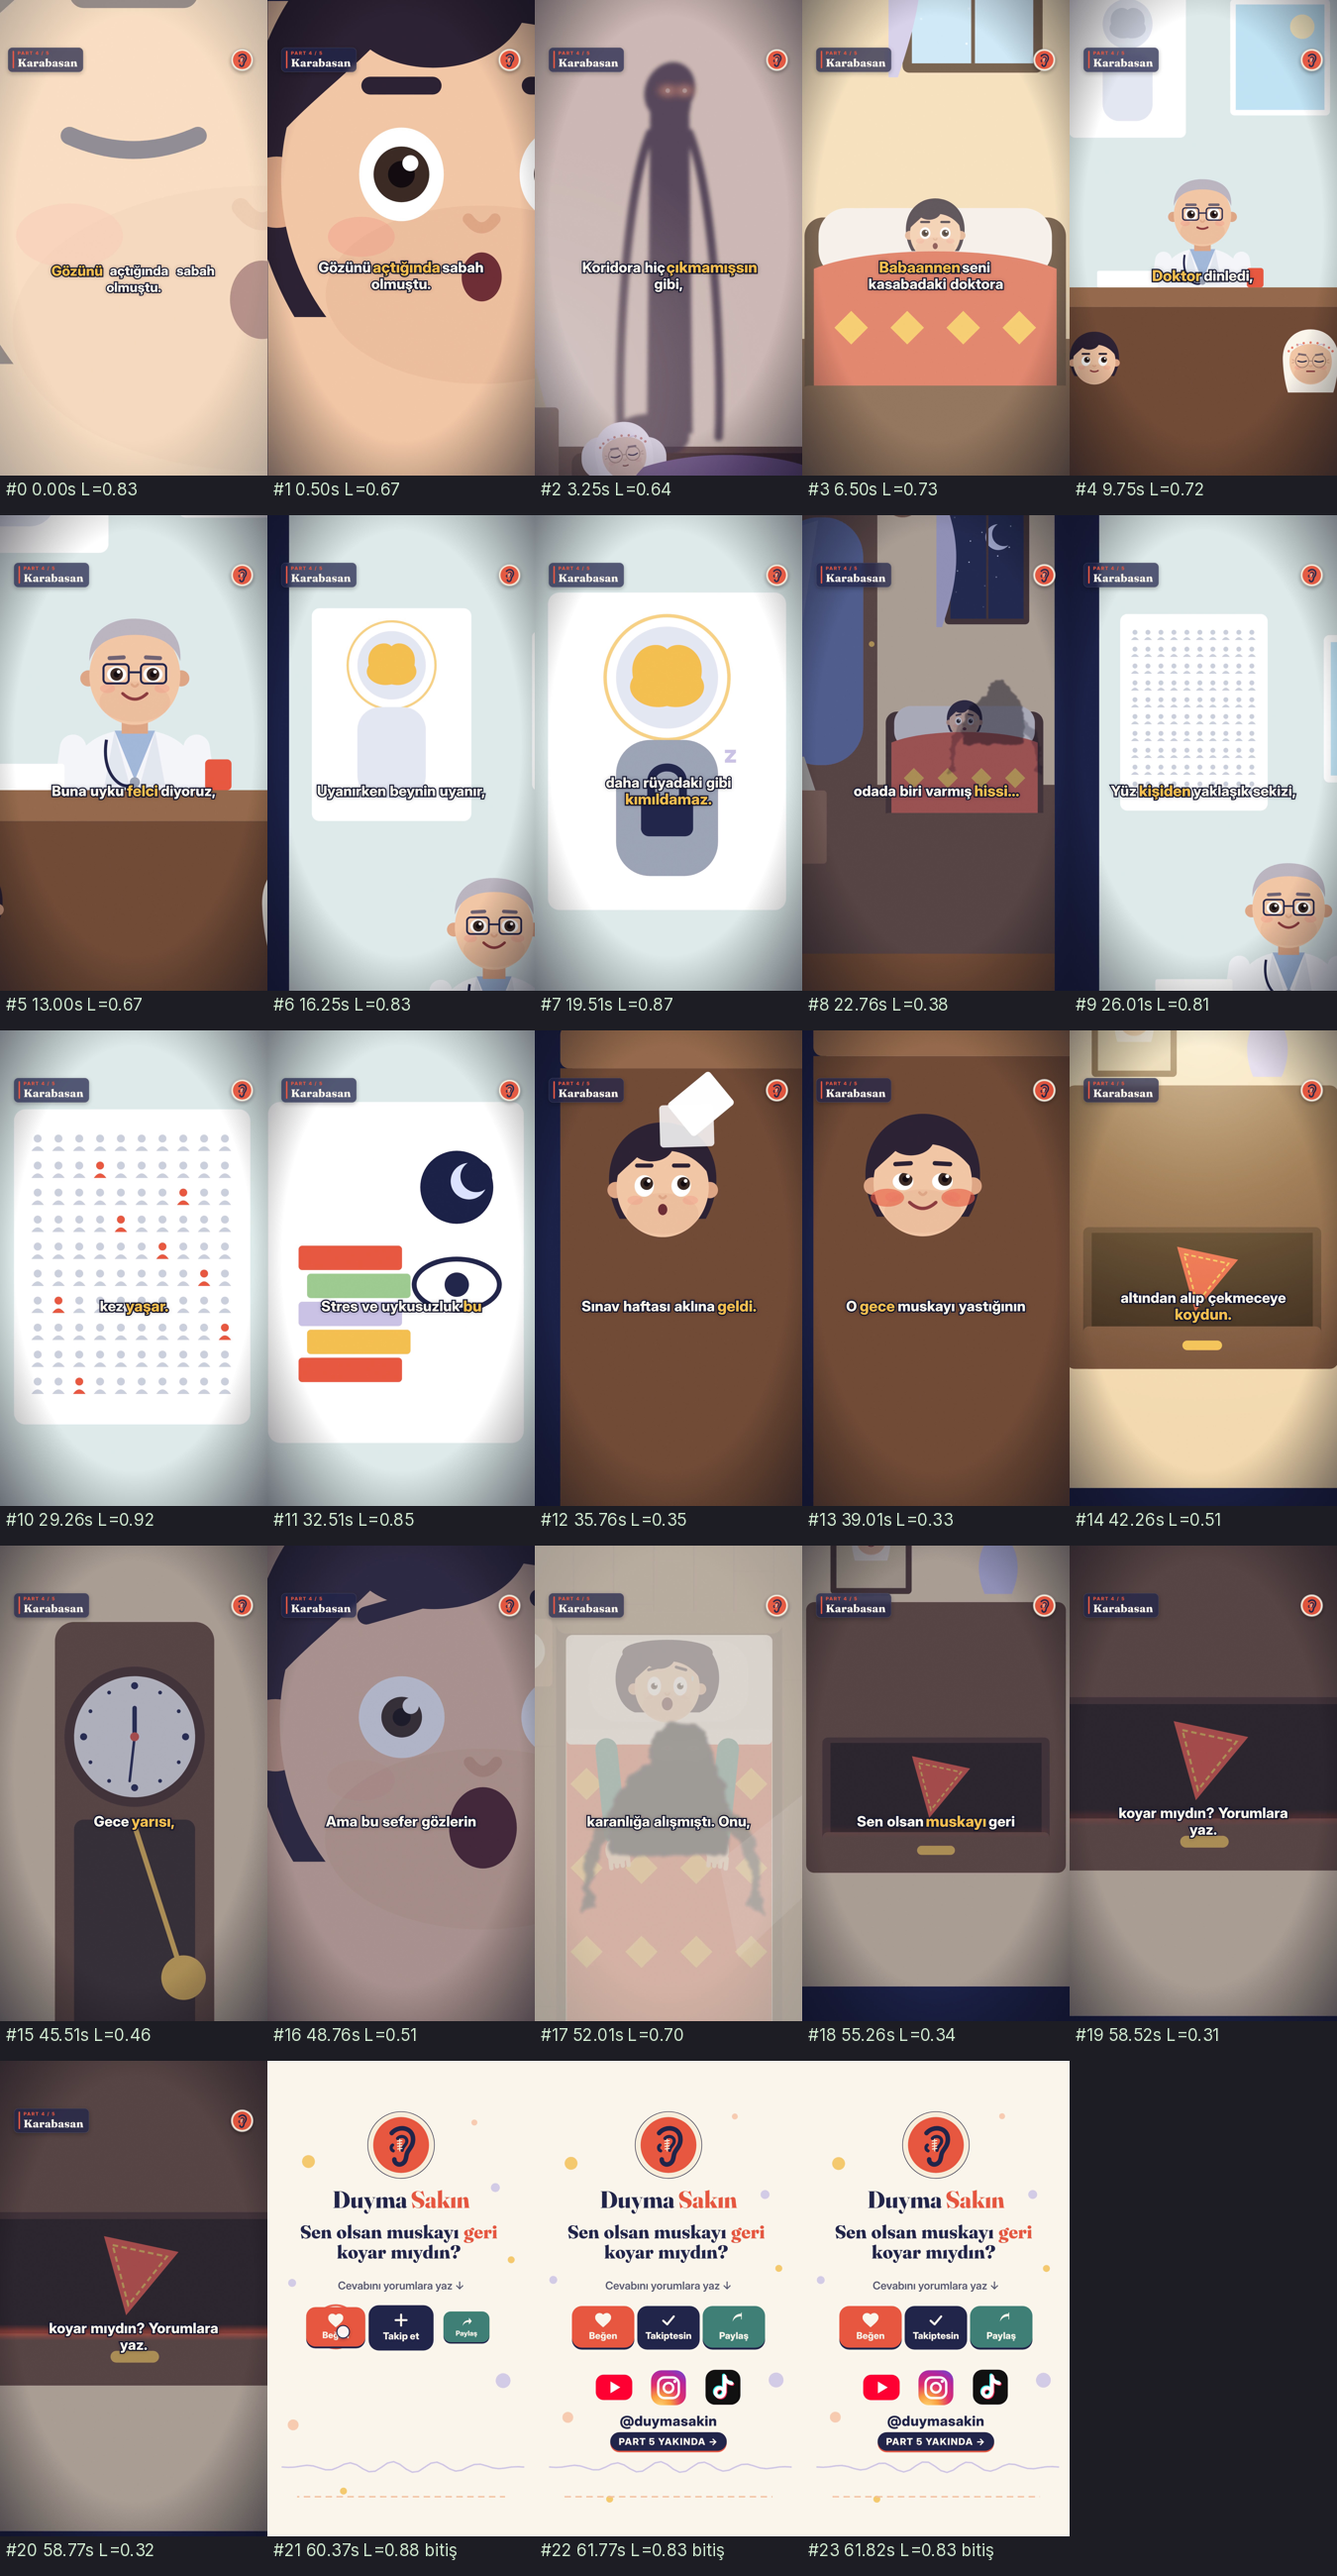
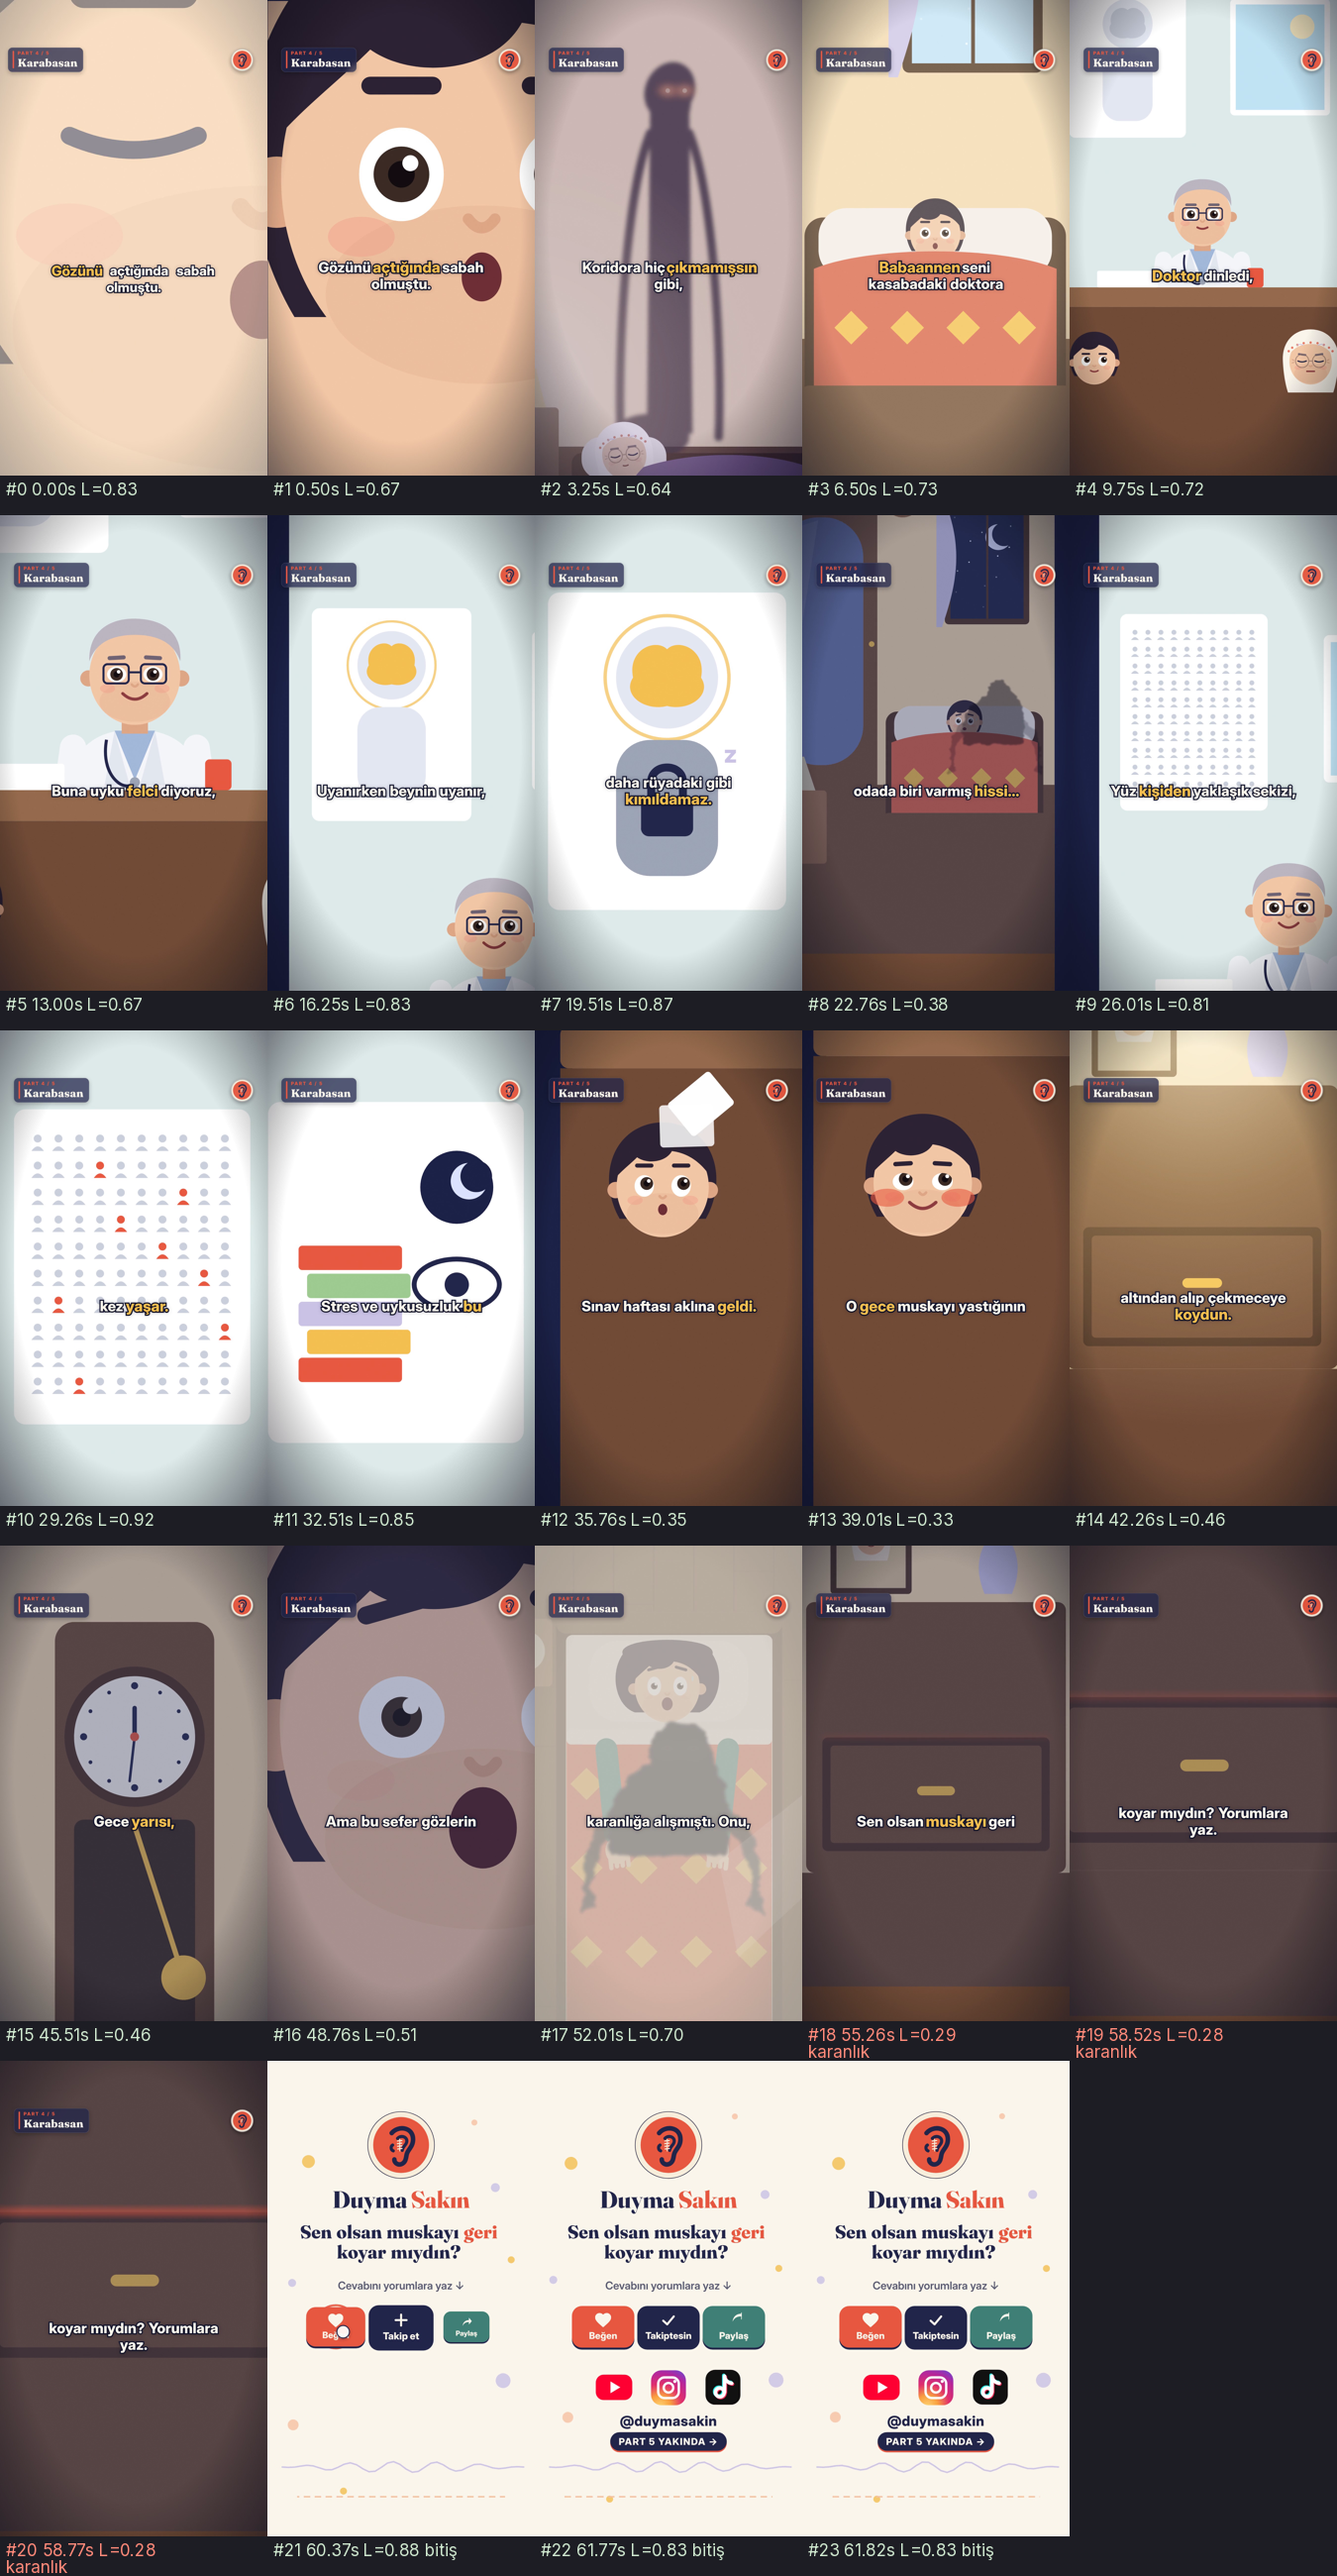
Part 4 son sahne: çekmece daha aydınlık, kırmızı sızıntı güçlü
Claude-Session: https://claude.ai/code/session_01WfPggS4dh4xhzWemV5wpkW

Changed region(s): [[0.5911, 0.6542, 1.0, 0.81], [0.0, 0.8412, 0.2178, 1.0], [0.7778, 0.4673, 1.0, 0.5919]]

diff --git a/uretim/src/bolumler/seri/Part4.tsx b/uretim/src/bolumler/seri/Part4.tsx
@@ -70,8 +70,9 @@ export const cekimler4 = (O: Record<string, number>): Cekim[] => [
     ciz: (lf, f) => <YatakUst f={f} lamba={0} ay={1} ifade="dehset" basinc={1} kb={{ gor: 1, netlik: 1, goz: ilerle(f, O.acikca - 4, O.acikca + 6), y: 820 }} /> },
   { bas: O.soru, gecis: "cozul", k0: { s: 1.0, cx: 540, cy: 1150 }, k1: { s: 1.4, cx: 540, cy: 1250 },
     ciz: (lf, f) => (
-      <g><Cekmece f={f} kapan={1} lamba={0} />
-        <rect x={120} y={992} width={840} height={14} fill={DV.mercan} opacity={0.5 + 0.4 * Math.sin(f * 0.2)} filter="url(#dv-parilti)" /></g>
+      <g><Cekmece f={f} kapan={1} lamba={0.45} />
+        <rect x={120} y={986} width={840} height={26} fill={DV.mercan} opacity={0.6 + 0.35 * Math.sin(f * 0.2)} filter="url(#dv-parilti)" />
+        <ellipse cx={540} cy={1000} rx={520} ry={120} fill={DV.mercan} opacity={0.18 + 0.1 * Math.sin(f * 0.2)} filter="url(#dv-yumusak)" /></g>
     ) },
 ];
 
